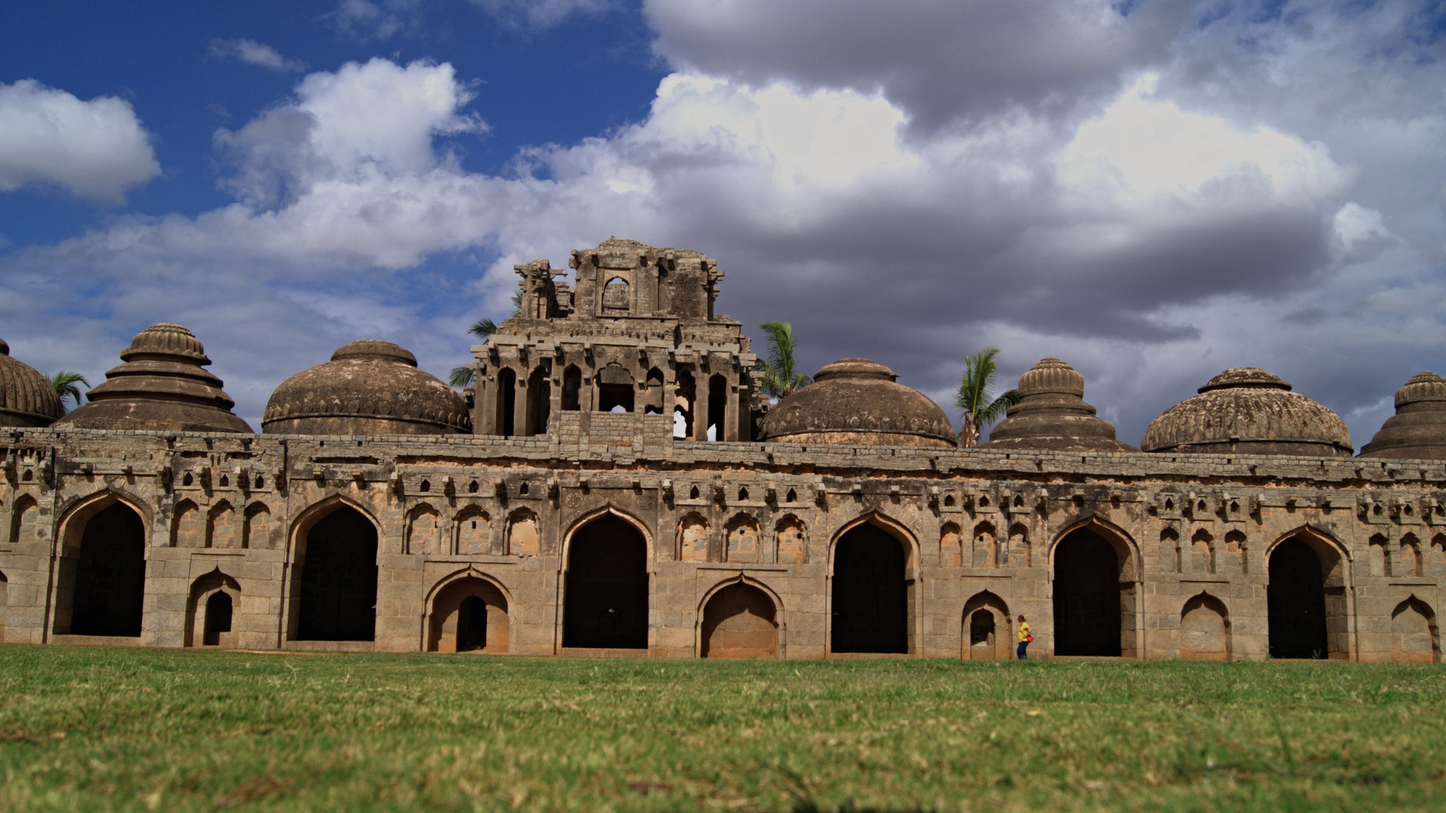
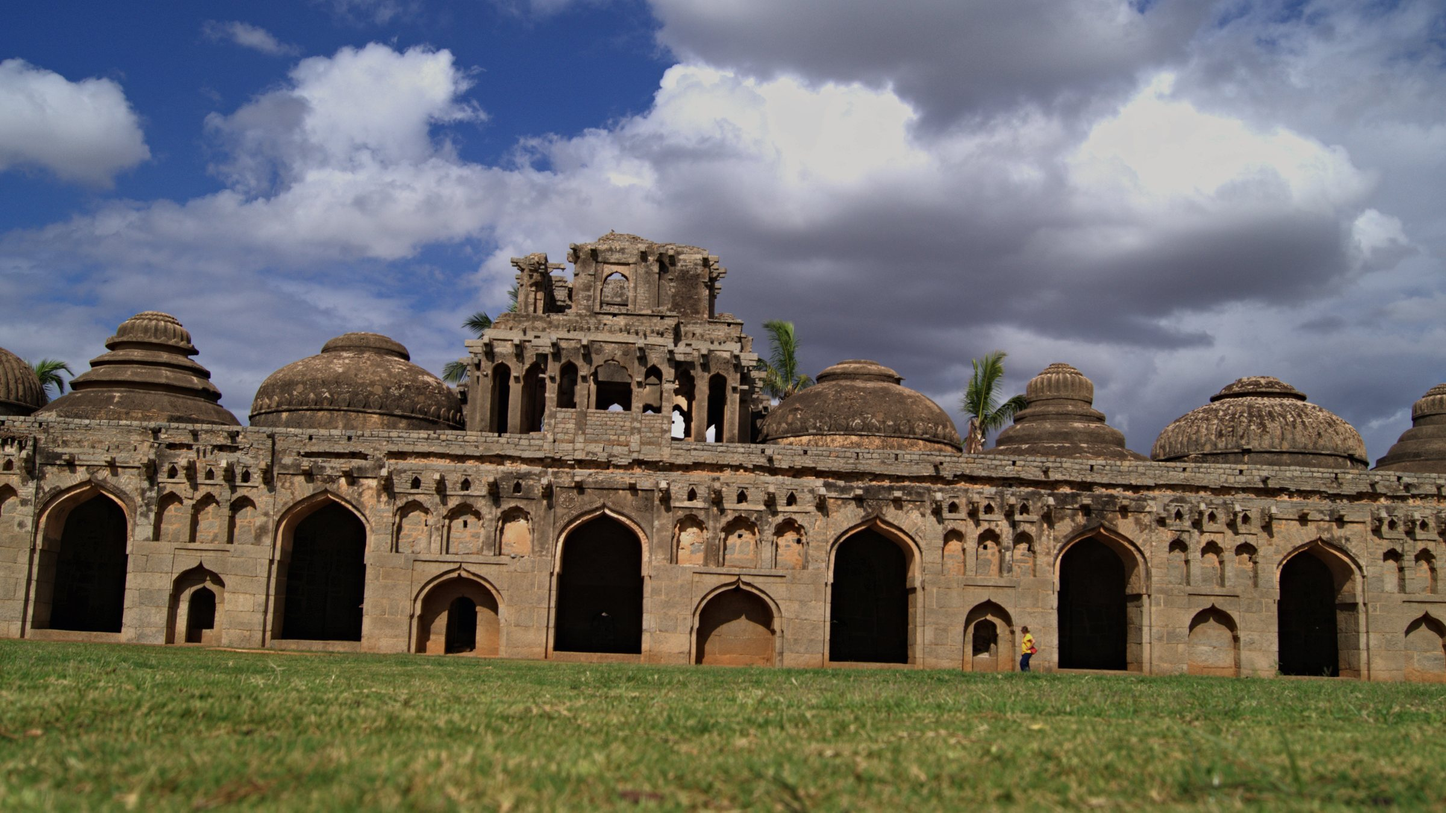
Lens: 18 underwater stills from video, levelled horizons
Sharpest frame pulled from each marine-life clip (clam, sea star, crinoids,
anthias, trevally, snappers, clownfish, sweetlips, sea krait, jellies), graded
naturally and cropped to thirds. Horizons measured and levelled on nine frames
(tidepools, sea cave, elephants at dawn, mahout, etc.); elephant stables levelled
to its base line.

diff --git a/src/lib/lens.ts b/src/lib/lens.ts
@@ -97,43 +97,61 @@ export const services = [
 export const gear = ["GoPro HERO9 Black", "Sony α58", "SJCAM 4K", "Phone (Samsung / OnePlus)", "Edit: DaVinci Resolve, ffmpeg, custom grading"];
 
 export const photos: LensPhoto[] = [
-  { slug: "elephants-dawn", title: "Dawn crossing", place: "Dubare, Karnataka", date: "2017", cat: "wildlife", w: 2400, h: 1600, selected: 2 },
-  { slug: "mahout-backlight", title: "Morning bath", place: "Dubare, Karnataka", date: "2017", cat: "wildlife", w: 1919, h: 2400, selected: 6 },
+  { slug: "elephants-dawn", title: "Dawn crossing", place: "Dubare, Karnataka", date: "2017", cat: "wildlife", w: 2400, h: 1600, selected: 3 },
+  { slug: "mahout-backlight", title: "Morning bath", place: "Dubare, Karnataka", date: "2017", cat: "wildlife", w: 1919, h: 2400, selected: 9 },
   { slug: "trunk-silhouette", title: "Trunk", place: "Dubare, Karnataka", date: "2017", cat: "wildlife", w: 2400, h: 1600 },
   { slug: "cormorant-snag", title: "Lookout", place: "Dubare, Karnataka", date: "2017", cat: "wildlife", w: 1919, h: 2400 },
   { slug: "vine-snake", title: "Vine snake", place: "Dandeli, Karnataka", date: "Oct 2018", cat: "wildlife", w: 1601, h: 2001, selected: 0 },
   { slug: "spotted-deer", title: "Spotted deer", place: "Dandeli, Karnataka", date: "Oct 2018", cat: "wildlife", w: 2400, h: 1600 },
   { slug: "golden-orb", title: "Golden orb weaver", place: "Western Ghats", date: "Sep 2018", cat: "macro", w: 1920, h: 2400 },
   { slug: "grass-sun", title: "Last light", place: "Dandeli, Karnataka", date: "Oct 2018", cat: "landscape", w: 2400, h: 1600 },
-  { slug: "dudhsagar-tunnel", title: "Dudhsagar through the tunnel", place: "Goa–Karnataka border", date: "Oct 2018", cat: "landscape", w: 1919, h: 2400, selected: 15 },
-  { slug: "lotus-mahal-arches", title: "Arches, Lotus Mahal", place: "Hampi", date: "Jul 2019", cat: "architecture", w: 1920, h: 2400, selected: 5 },
+  { slug: "dudhsagar-tunnel", title: "Dudhsagar through the tunnel", place: "Goa–Karnataka border", date: "Oct 2018", cat: "landscape", w: 1919, h: 2400, selected: 19 },
+  { slug: "lotus-mahal-arches", title: "Arches, Lotus Mahal", place: "Hampi", date: "Jul 2019", cat: "architecture", w: 1920, h: 2400, selected: 7 },
   { slug: "stepped-tank", title: "Stepped tank", place: "Hampi", date: "Jul 2019", cat: "architecture", w: 2400, h: 1600 },
   { slug: "elephant-stables", title: "Elephant stables", place: "Hampi", date: "Jul 2019", cat: "architecture", w: 2400, h: 1349 },
-  { slug: "wave-silhouette", title: "Silver sea", place: "Mangaluru", date: "Aug 2019", cat: "seascape", w: 2400, h: 1600, selected: 10 },
+  { slug: "wave-silhouette", title: "Silver sea", place: "Mangaluru", date: "Aug 2019", cat: "seascape", w: 2400, h: 1600, selected: 13 },
   { slug: "diya", title: "Diya", place: "Karnataka", date: "Dec 2014", cat: "macro", w: 1920, h: 2400 },
-  { slug: "peacock-fan", title: "Display", place: "Jogimatti", date: "2015", cat: "wildlife", w: 1920, h: 2400, selected: 11 },
+  { slug: "peacock-fan", title: "Display", place: "Jogimatti", date: "2015", cat: "wildlife", w: 1920, h: 2400, selected: 14 },
   { slug: "peacock-ooty", title: "Peacock", place: "Ooty", date: "2013", cat: "wildlife", w: 1878, h: 2348 },
   { slug: "elephant-herd", title: "The herd", place: "Masinagudi", date: "Jul 2022", cat: "wildlife", w: 2400, h: 1600 },
-  { slug: "yana-spires", title: "Yana", place: "Uttara Kannada", date: "Nov 2020", cat: "landscape", w: 1920, h: 2400, selected: 14 },
-  { slug: "sea-cave-window", title: "Window", place: "Andaman Islands", date: "2023", cat: "adventure", w: 1920, h: 2400, selected: 3 },
-  { slug: "natural-bridge", title: "Natural Bridge", place: "Neil Island, Andaman", date: "Apr 2023", cat: "seascape", w: 1920, h: 2400, selected: 7 },
+  { slug: "yana-spires", title: "Yana", place: "Uttara Kannada", date: "Nov 2020", cat: "landscape", w: 1920, h: 2400, selected: 18 },
+  { slug: "sea-cave-window", title: "Window", place: "Andaman Islands", date: "2023", cat: "adventure", w: 1920, h: 2400, selected: 5 },
+  { slug: "natural-bridge", title: "Natural Bridge", place: "Neil Island, Andaman", date: "Apr 2023", cat: "seascape", w: 1920, h: 2400, selected: 10 },
   { slug: "tidepools", title: "Tidepools", place: "Andaman Islands", date: "May 2023", cat: "seascape", w: 2271, h: 1514 },
   { slug: "mangrove", title: "Mangrove", place: "Andaman Islands", date: "Apr 2022", cat: "seascape", w: 2400, h: 1600 },
-  { slug: "trees-in-the-tide", title: "Trees in the tide", place: "Andaman Islands", date: "Apr 2022", cat: "seascape", w: 2400, h: 1350, selected: 12 },
+  { slug: "trees-in-the-tide", title: "Trees in the tide", place: "Andaman Islands", date: "Apr 2022", cat: "seascape", w: 2400, h: 1350, selected: 15 },
   { slug: "forest-mirror", title: "Forest mirror", place: "Andaman Islands", date: "Apr 2022", cat: "landscape", w: 2400, h: 1350 },
   { slug: "valparai-dusk", title: "Valley at dusk", place: "Valparai", date: "Nov 2023", cat: "landscape", w: 2400, h: 1600 },
-  { slug: "clownfish", title: "Clownfish", place: "Andaman Islands", date: "2023", cat: "underwater", w: 1920, h: 2400, selected: 9 },
+  { slug: "clownfish", title: "Clownfish", place: "Andaman Islands", date: "2023", cat: "underwater", w: 1920, h: 2400 },
   { slug: "wake", title: "Wake", place: "Andaman Sea", date: "Apr 2022", cat: "seascape", w: 1459, h: 1824 },
   { slug: "palm-road", title: "Palm road", place: "Goa", date: "Oct 2021", cat: "landscape", w: 1504, h: 1880 },
   { slug: "toward-the-sun", title: "Toward the sun", place: "Gokarna", date: "Jan 2022", cat: "seascape", w: 2400, h: 1600 },
   { slug: "gaur", title: "Gaur", place: "Masinagudi, Nilgiris", date: "Jul 2022", cat: "wildlife", w: 2400, h: 1599, selected: 1 },
   { slug: "vulture-flock", title: "The gathering", place: "Masinagudi, Nilgiris", date: "Jul 2022", cat: "wildlife", w: 2400, h: 1350 },
-  { slug: "vultures-wings", title: "Vultures", place: "Masinagudi, Nilgiris", date: "Jul 2022", cat: "wildlife", w: 2400, h: 1600, selected: 4 },
-  { slug: "tusker", title: "Tusker", place: "Masinagudi, Nilgiris", date: "Jul 2022", cat: "wildlife", w: 1921, h: 2400, selected: 8 },
+  { slug: "vultures-wings", title: "Vultures", place: "Masinagudi, Nilgiris", date: "Jul 2022", cat: "wildlife", w: 2400, h: 1600, selected: 6 },
+  { slug: "tusker", title: "Tusker", place: "Masinagudi, Nilgiris", date: "Jul 2022", cat: "wildlife", w: 1921, h: 2400, selected: 11 },
   { slug: "peacock-train", title: "Train", place: "Masinagudi, Nilgiris", date: "Jul 2022", cat: "wildlife", w: 2400, h: 1600 },
   { slug: "peacock-display", title: "Display", place: "Masinagudi, Nilgiris", date: "Jul 2022", cat: "wildlife", w: 1716, h: 2144 },
-  { slug: "deer-and-boar", title: "Standoff", place: "Masinagudi, Nilgiris", date: "Jul 2022", cat: "wildlife", w: 2400, h: 1600, selected: 13 },
+  { slug: "deer-and-boar", title: "Standoff", place: "Masinagudi, Nilgiris", date: "Jul 2022", cat: "wildlife", w: 2400, h: 1600, selected: 16 },
   { slug: "wild-boar", title: "Wild boar", place: "Masinagudi, Nilgiris", date: "Jul 2022", cat: "wildlife", w: 2026, h: 1350 },
+  { slug: "anthias-whip", title: "Anthias", place: "Andaman Islands", date: "2022", cat: "underwater", w: 864, h: 1080 },
+  { slug: "barrel-coral", title: "Barrel sponge", place: "Andaman Islands", date: "2022", cat: "underwater", w: 2400, h: 1600 },
+  { slug: "blue-sea-star", title: "Blue sea star", place: "Andaman Islands", date: "2023", cat: "underwater", w: 905, h: 1131 },
+  { slug: "brain-coral", title: "Brain coral", place: "Andaman Islands", date: "2023", cat: "underwater", w: 1156, h: 1444 },
+  { slug: "clownfish-anemone", title: "Anemone", place: "Andaman Islands", date: "2022", cat: "underwater", w: 2400, h: 1600 },
+  { slug: "clownfish-pair", title: "Clownfish", place: "Andaman Islands", date: "2022", cat: "underwater", w: 2400, h: 1600, selected: 2 },
+  { slug: "crinoid", title: "Feather star", place: "Andaman Islands", date: "2023", cat: "underwater", w: 1273, h: 1590 },
+  { slug: "feather-star", title: "Crinoid", place: "Andaman Islands", date: "2023", cat: "underwater", w: 1080, h: 1350 },
+  { slug: "fish-school", title: "School", place: "Andaman Islands", date: "2022", cat: "underwater", w: 1728, h: 2160, selected: 8 },
+  { slug: "giant-clam", title: "Giant clam", place: "Andaman Islands", date: "2023", cat: "underwater", w: 1520, h: 1900, selected: 17 },
+  { slug: "moon-jelly", title: "Moon jelly", place: "Andaman Islands", date: "2023", cat: "underwater", w: 1080, h: 1350 },
+  { slug: "sea-fan", title: "Sea fan", place: "Andaman Islands", date: "2023", cat: "underwater", w: 1080, h: 1350, selected: 4 },
+  { slug: "sea-krait", title: "Banded sea krait", place: "Andaman Islands", date: "2023", cat: "underwater", w: 2280, h: 1520 },
+  { slug: "staghorn-anthias", title: "Staghorn", place: "Andaman Islands", date: "2023", cat: "underwater", w: 1520, h: 1900 },
+  { slug: "sweetlips", title: "Sweetlips", place: "Andaman Islands", date: "2022", cat: "underwater", w: 2400, h: 1599 },
+  { slug: "table-coral", title: "Table coral", place: "Andaman Islands", date: "2022", cat: "underwater", w: 2400, h: 1599, selected: 12 },
+  { slug: "trevally", title: "Trevally", place: "Andaman Islands", date: "2022", cat: "underwater", w: 2400, h: 1600 },
+  { slug: "yellow-snappers", title: "Yellow snappers", place: "Andaman Islands", date: "2022", cat: "underwater", w: 2400, h: 1600 },
 ];
 
 export const selectedPhotos = photos
